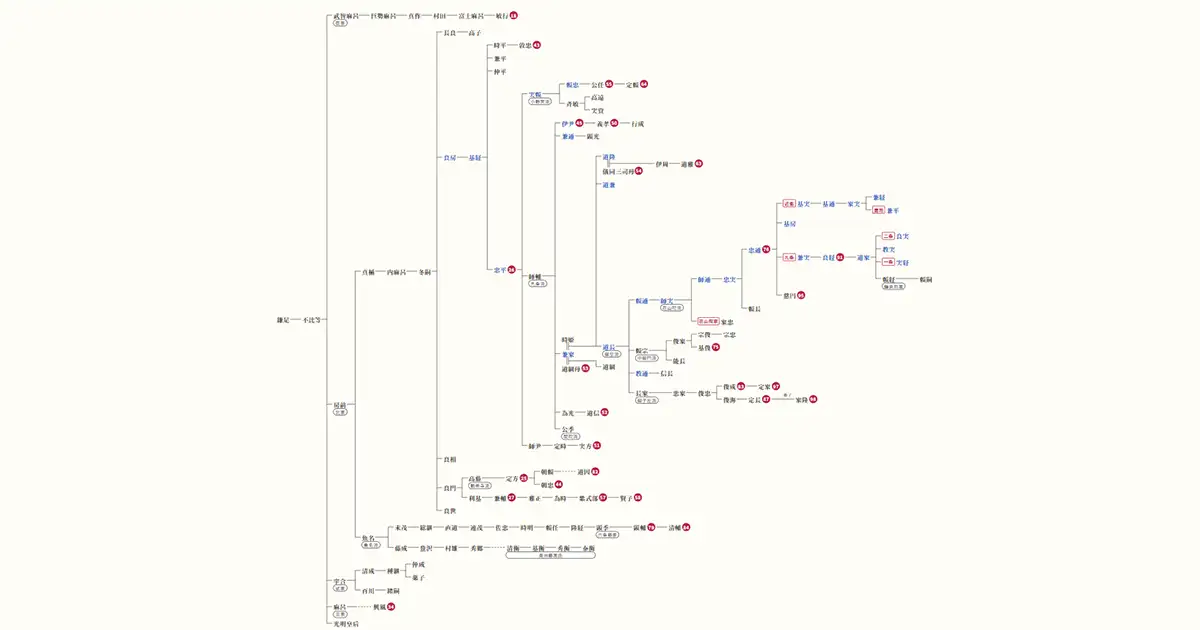
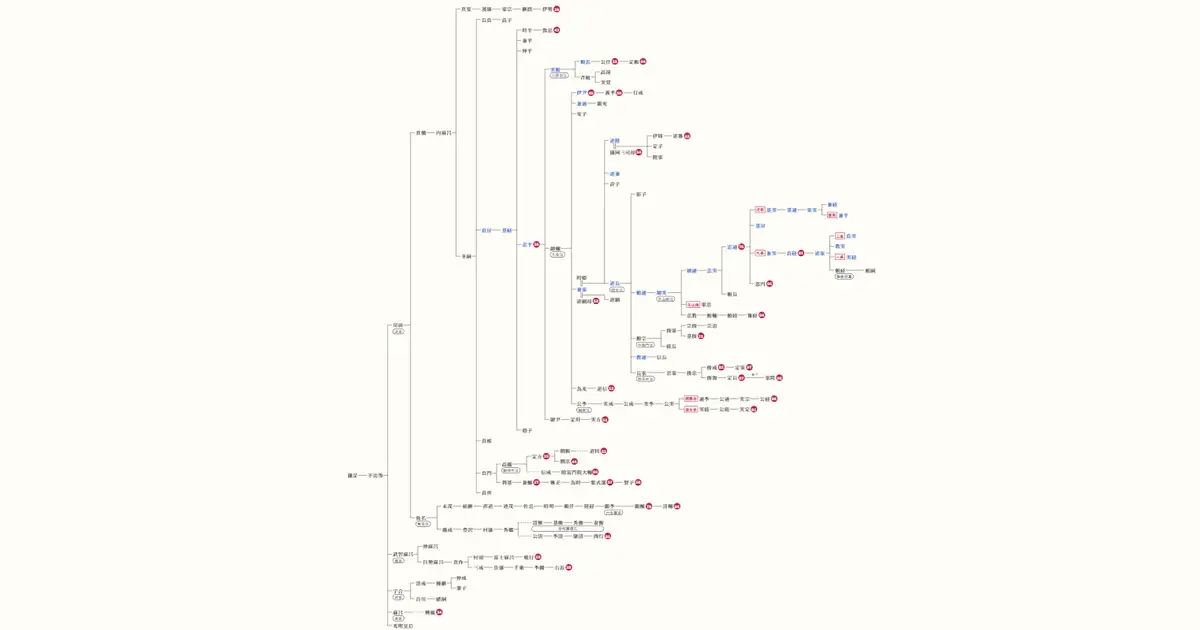
調整

diff --git a/js/fujiwara-keizu.js b/js/fujiwara-keizu.js
@@ -9,7 +9,7 @@
     n: 名前 / c: 子
     k: 摂政・関白になった者（青字）
     p: 百人一首の歌番号（番号バッジ＋歌のページへのリンク）
-    pre: 家名・屋号（名前の前の赤枠。五摂家・花山院家など） / sub: 家名などの札（名前の下） / note: 名前の後ろの注記
+    pre: 家名（名前の前の赤枠。「家」は付けない：近衛・九条・花山院・西園寺・徳大寺など） / sub: 家名などの札（名前の下） / note: 名前の後ろの注記
     band: 一列に続く子孫（子が1人ずつ）の下にまたがる札（例：奥州藤原氏の4代）
     dash: 親との間を点線（数代省略）で結ぶ
     adopt: 親の養子。親との間の線に「養子」と書く
@@ -28,20 +28,18 @@
 
   var TREE = N('鎌足', {}, [
     N('不比等', {}, [
-      N('武智麻呂', { sub: '南家', id: 'nanke' }, [
-        N('巨勢麻呂', {}, [
-          N('真作', {}, [
-            N('村田', {}, [
-              N('富士麻呂', {}, [
-                N('敏行', { p: 18 })
-              ])
-            ])
-          ])
-        ])
-      ]),
       N('房前', { sub: '北家', id: 'hokke' }, [
         N('真楯', {}, [
           N('内麻呂', {}, [
+            N('真夏', {}, [
+              N('濱雄', {}, [
+                N('家宗', {}, [
+                  N('継蔭', {}, [
+                    N('伊勢', { p: 19 })
+                  ])
+                ])
+              ])
+            ]),
             N('冬嗣', {}, [
               N('長良', {}, [N('高子')]),
               N('良房', { k: 1, id: 'sekkan' }, [
@@ -66,15 +64,20 @@
                         N('義孝', { p: 50 }, [N('行成')])
                       ]),
                       N('兼通', { k: 1 }, [N('顕光')]),
+                      N('安子'),
                       N('兼家', { k: 1 }, [
                         N('時姫', { spouse: 1 }, [
                           N('道隆', { k: 1, wife: { n: '儀同三司母', p: 54 } }, [
                             N('伊周', {}, [
                               N('道雅', { p: 63 })
-                            ])
+                            ]),
+                            N('定子'),
+                            N('隆家')
                           ]),
                           N('道兼', { k: 1 }),
+                          N('詮子'),
                           N('道長', { k: 1, sub: '御堂流', id: 'mido' }, [
+                            N('彰子'),
                             N('頼通', { k: 1 }, [
                               N('師実', { k: 1, sub: '花山院流', id: 'kazanin' }, [
                                 N('師通', { k: 1 }, [
@@ -106,7 +109,14 @@
                                     N('頼長')
                                   ])
                                 ]),
-                                N('家忠', { pre: '花山院家' })
+                                N('家忠', { pre: '花山院' }),
+                                N('忠教', {}, [
+                                  N('頼輔', {}, [
+                                    N('頼経', { key: '難波頼経' }, [
+                                      N('雅経', { p: 94 })
+                                    ])
+                                  ])
+                                ])
                               ])
                             ]),
                             N('頼宗', { sub: '中御門流', id: 'nakamikado' }, [
@@ -138,12 +148,34 @@
                         ])
                       ]),
                       N('為光', {}, [N('道信', { p: 52 })]),
-                      N('公季', { sub: '閑院流', id: 'kanin' })
+                      N('公季', { sub: '閑院流', id: 'kanin' }, [
+                        N('実成', {}, [
+                          N('公成', {}, [
+                            N('実季', {}, [
+                              N('公実', {}, [
+                                N('通季', { pre: '西園寺' }, [
+                                  N('公通', {}, [
+                                    N('実宗', {}, [
+                                      N('公経', { p: 96 })
+                                    ])
+                                  ])
+                                ]),
+                                N('実能', { pre: '徳大寺' }, [
+                                  N('公能', {}, [
+                                    N('実定', { p: 81 })
+                                  ])
+                                ])
+                              ])
+                            ])
+                          ])
+                        ])
+                      ])
                     ]),
                     N('師尹', {}, [
                       N('定時', {}, [N('実方', { p: 51 })])
                     ])
-                  ])
+                  ]),
+                  N('穏子')
                 ])
               ]),
               N('良相'),
@@ -154,6 +186,9 @@
                       N('道因', { p: 82, dash: 1 })
                     ]),
                     N('朝忠', { p: 44 })
+                  ]),
+                  N('信成', { dash: 1 }, [
+                    N('殷富門院大輔', { p: 90 })
                   ])
                 ]),
                 N('利基', {}, [
@@ -197,9 +232,38 @@
           N('藤成', {}, [
             N('豊沢', {}, [
               N('村雄', {}, [
-                N('秀郷', { id: 'oshu' }, [
-                  N('清衡', { dash: 1, band: '奥州藤原氏' }, [
+                N('秀郷', {}, [
+                  N('清衡', { dash: 1, band: '奥州藤原氏', id: 'oshu' }, [
                     N('基衡', {}, [N('秀衡', {}, [N('泰衡')])])
+                  ]),
+                  // 佐藤氏：秀郷の6世の孫・公清から（コトバンク「佐藤氏」「西行」、Wikipedia「西行」）
+                  N('公清', { dash: 1 }, [
+                    N('季清', {}, [
+                      N('康清', {}, [
+                        N('西行', { p: 86 })
+                      ])
+                    ])
+                  ])
+                ])
+              ])
+            ])
+          ])
+        ])
+      ]),
+      N('武智麻呂', { sub: '南家', id: 'nanke' }, [
+        N('仲麻呂'),
+        N('巨勢麻呂', {}, [
+          N('真作', {}, [
+            N('村田', {}, [
+              N('富士麻呂', {}, [
+                N('敏行', { p: 18 })
+              ])
+            ]),
+            N('三成', {}, [
+              N('岳雄', {}, [
+                N('千乗', {}, [
+                  N('季縄', {}, [
+                    N('右近', { p: 38 })
                   ])
                 ])
               ])
@@ -242,7 +306,7 @@
     kajuji: { label: '勧修寺流', roots: ['kajuji'], desc: '良門の子・高藤に始まる系統。高藤の娘・胤子を母とする醍醐天皇が建てた勧修寺にちなむ名です。' },
     uona: { label: '魚名流', roots: ['uona'], desc: '房前の五男・魚名に始まる系統。子孫からは藤原秀郷や六条藤家などが出ました。' },
     rokujo: { label: '六条藤家', roots: ['rokujo'], desc: '顕季に始まる歌道の家。顕輔・清輔と続き、御子左家と並ぶ歌壇の名門となりました。' },
-    oshu: { label: '奥州藤原氏', roots: ['oshu'], keep: ['魚名'], desc: '藤原秀郷の子孫とされる一族。清衡・基衡・秀衡・泰衡の四代にわたって平泉を拠点に栄えましたが、1189年に源頼朝に滅ぼされました。' },
+    oshu: { label: '奥州藤原氏', roots: ['oshu'], keep: ['魚名', '秀郷'], desc: '藤原秀郷の子孫とされる一族。清衡・基衡・秀衡・泰衡の四代にわたって平泉を拠点に栄えましたが、1189年に源頼朝に滅ぼされました。' },
     poets: { label: '百人一首の歌人', pick: function (d) { return !!d.p || !!(d.wife && d.wife.p); }, desc: 'この系図に登場する百人一首の歌人を表示しています。赤い番号をクリックすると歌のページへ移動します。' }
   };
 
@@ -469,7 +533,10 @@
       var c = 'fk-edge' + (cv.mode === 'ctx' ? ' is-ctx' : '') + (cv.dash ? ' is-dash' : '');
       el('path', { d: 'M' + barX + ' ' + cv.inY + 'H' + (cv.x - 3), class: c }, g);
       if (cv.d.adopt) {
-        el('text', { class: 'fk-adopt' + (cv.mode === 'ctx' ? ' is-ctx' : ''), x: cv.x - ADOPT_EXTRA / 2 - 4, y: cv.inY - 6 }, g).textContent = '養子';
+        // 「養子」は親から子への線の中央に置く（子が1人なら親の右端から、複数なら縦線から子まで）
+        var lineStart = kids.length === 1 ? fromX : barX;
+        var midX = (lineStart + cv.x - 3) / 2;
+        el('text', { class: 'fk-adopt' + (cv.mode === 'ctx' ? ' is-ctx' : ''), x: midX, y: cv.inY - 6 }, g).textContent = '養子';
       }
       drawEdges(g, cv);
     });

diff --git a/js/fujiwara-keizu-tooltips.js b/js/fujiwara-keizu-tooltips.js
@@ -133,5 +133,52 @@ window.FK_TOOLTIPS = {
   '緒嗣': ['<ruby>藤原緒嗣<rt>ふじわらのおつぐ</rt></ruby>','生没年：774年～843年', '官職：左大臣', '位階：正二位、贈従一位'],
   '麻呂': ['<ruby>藤原麻呂<rt>ふじわらのまろ</rt></ruby>','生没年：695年～737年', '官職：参議', '位階：従三位','特記：藤原京家の祖'],
   '興風': ['<ruby>藤原興風<rt>ふじわらのおきかぜ</rt></ruby>', '生没年：不明', '官職：下総大掾', '位階：正六位上','百人一首：34番「誰をかも…」の歌人','特記：三十六歌仙の一人'],
-  '光明皇后': ['<ruby>光明皇后<rt>こうみょうこうごう</rt></ruby>', '系譜：聖武天皇の皇后','特記：皇族以外の出身者として初めて皇后となる']
+  '光明皇后': ['<ruby>光明皇后<rt>こうみょうこうごう</rt></ruby>', '系譜：聖武天皇の皇后','特記：皇族以外の出身者として初めて皇后となる'],
+
+  // ---- 以下、Wikipedia（日本語版）の記載のみをもとに追加した人物 ----
+  // 南家
+  '仲麻呂': ['<ruby>藤原仲麻呂<rt>ふじわらのなかまろ</rt></ruby>', '生没年：706年～764年', '官職：太師（太政大臣）', '位階：正一位', '別名：藤原恵美押勝'],
+  '三成': ['<ruby>藤原三成<rt>ふじわらのただなり</rt></ruby>', '生没年：786年～830年', '官職：春宮亮', '位階：従四位下'],
+  '岳雄': ['<ruby>藤原岳雄<rt>ふじわらのおかお</rt></ruby>', '生没年：不明～847年', '官職：左少弁', '位階：従五位下'],
+  '千乗': ['<ruby>藤原千乗<rt>ふじわらのちのり</rt></ruby>', '生没年：不明', '官職：左中弁', '位階：従四位下'],
+  '季縄': ['<ruby>藤原季縄<rt>ふじわらのすえただ</rt></ruby>', '生没年：不明～919年', '官職：左近衛少将', '位階：正五位下'],
+  '右近': ['<ruby>右近<rt>うこん</rt></ruby>', '生没年：不明', '系譜：藤原季縄の娘', '百人一首：38番「忘らるる…」の歌人'],
+  // 北家 真夏流
+  '真夏': ['<ruby>藤原真夏<rt>ふじわらのまなつ</rt></ruby>', '生没年：774年～830年', '官職：参議', '位階：従三位'],
+  '濱雄': ['<ruby>藤原濱雄<rt>ふじわらのはまお</rt></ruby>', '生没年：不明～840年', '官職：民部少輔', '位階：従五位下'],
+  '家宗': ['藤原家宗', '生没年：817年～877年', '官職：参議', '位階：従三位'],
+  '継蔭': ['藤原継蔭', '生没年：不明', '官職：大和守', '位階：従五位上'],
+  '伊勢': ['<ruby>伊勢<rt>いせ</rt></ruby>', '生没年：872年頃～938年頃', '系譜：藤原継蔭の娘', '百人一首：19番「難波潟…」の歌人', '特記：三十六歌仙の一人'],
+  // 后妃
+  '穏子': ['<ruby>藤原穏子<rt>ふじわらのおんし</rt></ruby>', '生没年：885年～954年', '系譜：醍醐天皇の皇后、朱雀天皇・村上天皇の母'],
+  '安子': ['<ruby>藤原安子<rt>ふじわらのあんし</rt></ruby>', '生没年：927年～964年', '系譜：村上天皇の中宮、冷泉天皇・円融天皇の母'],
+  '詮子': ['<ruby>藤原詮子<rt>ふじわらのせんし</rt></ruby>', '生没年：962年～1002年', '系譜：円融天皇の女御、一条天皇の母', '院号：東三条院'],
+  '定子': ['<ruby>藤原定子<rt>ふじわらのさだこ</rt></ruby>', '生没年：976年～1001年', '系譜：一条天皇の皇后'],
+  '彰子': ['<ruby>藤原彰子<rt>ふじわらのしょうし</rt></ruby>', '生没年：988年～1074年', '系譜：一条天皇の中宮、後一条天皇・後朱雀天皇の母', '院号：上東門院'],
+  '隆家': ['<ruby>藤原隆家<rt>ふじわらのたかいえ</rt></ruby>', '生没年：979年～1044年', '官職：中納言', '位階：正二位'],
+  // 師実の子孫（難波家・飛鳥井家）
+  '忠教': ['<ruby>藤原忠教<rt>ふじわらのただのり</rt></ruby>', '生没年：1076年～1141年', '官職：大納言', '位階：正二位', '特記：難波家の祖'],
+  '頼輔': ['<ruby>難波頼輔<rt>なんばよりすけ</rt></ruby>', '生没年：1112年～1186年', '官職：刑部卿', '位階：従三位'],
+  '難波頼経': ['<ruby>難波頼経<rt>なんばよりつね</rt></ruby>', '生没年：不明～1217年', '官職：刑部卿', '位階：従四位下'],
+  '雅経': ['<ruby>飛鳥井雅経<rt>あすかいまさつね</rt></ruby>', '生没年：1170年～1221年', '官職：参議', '位階：従三位', '百人一首：94番「み吉野の…」の歌人', '特記：飛鳥井家の祖'],
+  // 閑院流（西園寺家・徳大寺家）
+  '実成': ['<ruby>藤原実成<rt>ふじわらのさねなり</rt></ruby>', '生没年：975年～1045年', '官職：中納言', '位階：正二位'],
+  '公成': ['<ruby>藤原公成<rt>ふじわらのきんなり</rt></ruby>', '生没年：999年～1043年', '官職：権中納言', '位階：従二位'],
+  '実季': ['<ruby>藤原実季<rt>ふじわらのさねすえ</rt></ruby>', '生没年：1035年～1092年', '官職：大納言', '位階：正二位、贈正一位'],
+  '公実': ['<ruby>藤原公実<rt>ふじわらのきんざね</rt></ruby>', '生没年：1053年～1107年', '官職：権大納言', '位階：正二位'],
+  '通季': ['<ruby>藤原通季<rt>ふじわらのみちすえ</rt></ruby>', '生没年：1090年～1128年', '官職：権中納言', '位階：正三位', '特記：西園寺家の祖'],
+  '公通': ['<ruby>藤原公通<rt>ふじわらのきんみち</rt></ruby>', '生没年：1117年～1173年', '官職：権大納言', '位階：正二位'],
+  '実宗': ['<ruby>藤原実宗<rt>ふじわらのさねむね</rt></ruby>', '生没年：1145年～1214年', '官職：内大臣', '位階：正二位'],
+  '公経': ['<ruby>西園寺公経<rt>さいおんじきんつね</rt></ruby>', '生没年：1171年～1244年', '官職：太政大臣', '位階：従一位', '百人一首：96番「花さそふ…」の歌人'],
+  '実能': ['<ruby>徳大寺実能<rt>とくだいじさねよし</rt></ruby>', '生没年：1096年～1157年', '官職：左大臣', '位階：従一位', '特記：徳大寺家の祖'],
+  '公能': ['<ruby>徳大寺公能<rt>とくだいじきんよし</rt></ruby>', '生没年：1115年～1161年', '官職：右大臣', '位階：正二位'],
+  '実定': ['<ruby>徳大寺実定<rt>とくだいじさねさだ</rt></ruby>', '生没年：1139年～1192年', '官職：左大臣', '位階：正二位', '百人一首：81番「ほととぎす…」の歌人'],
+  // 勧修寺流
+  '信成': ['藤原信成', '位階：従五位下', '系譜：殷富門院大輔の父'],
+  '殷富門院大輔': ['<ruby>殷富門院大輔<rt>いんぷもんいんのたいふ</rt></ruby>', '生没年：1130年頃～1200年頃', '系譜：藤原信成の娘', '百人一首：90番「見せばやな…」の歌人'],
+  // 秀郷流 佐藤氏（コトバンク「佐藤氏」「西行」、Wikipedia「西行」「佐藤氏」）
+  '公清': ['佐藤公清', '官職：左衛門尉', '特記：藤原秀郷の6世の孫、佐藤氏の初代'],
+  '季清': ['佐藤季清', '官職：左衛門尉'],
+  '康清': ['佐藤康清', '官職：左衛門尉', '系譜：西行の父'],
+  '西行': ['<ruby>西行<rt>さいぎょう</rt></ruby>', '生没年：1118年～1190年', '俗名：佐藤義清', '百人一首：86番「嘆けとて…」の歌人']
 };

diff --git a/fujiwara-keizu.html b/fujiwara-keizu.html
@@ -140,8 +140,8 @@
   <script src="../js/popper.min.js"></script>
   <script src="../js/tippy.umd.min.js"></script>
   <!-- ▲▲▲ tippy.js ▲▲▲ -->
-  <script src="../js/fujiwara-keizu-tooltips.js?20260929-07"></script>
-  <script src="../js/fujiwara-keizu.js?20260929-29"></script>
+  <script src="../js/fujiwara-keizu-tooltips.js?20260929-09"></script>
+  <script src="../js/fujiwara-keizu.js?20260929-36"></script>
 </body>
 
 </html>
